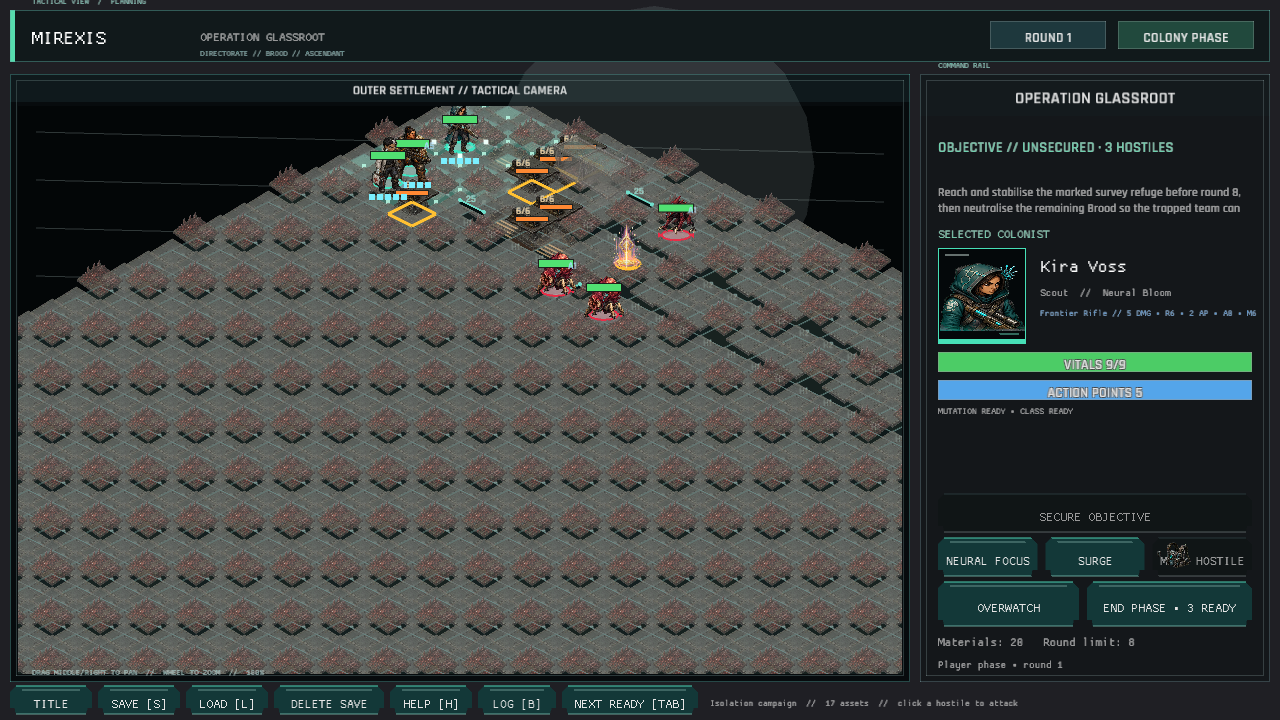
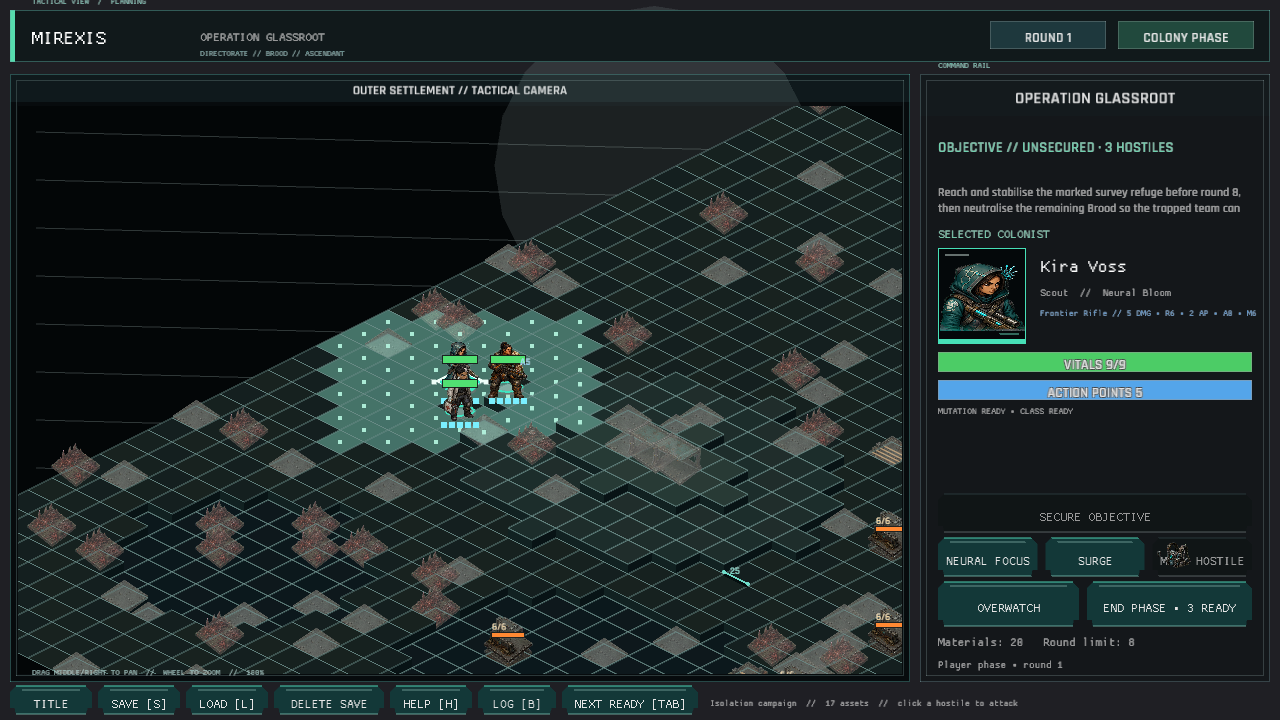
Every terrain plate meets the ground beneath it (tactical elevation and atlas origins)
The former corner bands and text labels did not read as terrain. Two broad mesas and two sunken basins now cross the 40 x 40 field, with height-sensitive top shading and exposed cliff faces drawn only where neighboring levels differ. `H0`/`H1`/`H2` labels are removed because the silhouettes carry the information.

`GridView` now owns the elevated tile ground anchor, atlas bounds, cliff-drop calculation, and art-aware culling. Measured 312 x 416 terrain-atlas cells define a 4:3 destination aspect, explicit per-content pivots, and near-tile-width scale; terrain, structures, canopy, and cover all use those shared bounds. Sparse mixed terrain art keeps the surfaces legible without losing authored landmarks.

Regression coverage pins height distribution, raised/lowered projection, cliff occlusion, inverse hit testing, atlas alpha axes, and pivot stability at 65%, 100%, and 185% zoom. Fresh `ui_gameplay.png` and `ui_variant.png` captures were inspected at 1280 x 720. Verified with 174 game tests plus the source-limit gate, strict Clippy with warnings denied, and a complete `publish.ps1` Windows/WebGL preview deployment.

diff --git a/src/grid_ui/tests.rs b/src/grid_ui/tests.rs
@@ -23,7 +23,7 @@ fn inverse_hit_testing_covers_projected_interiors_in_each_height_band() {
     ];
     for tile in [
         TilePos::new(3, 20),
-        TilePos::new(13, 12),
+        TilePos::new(12, 19),
         TilePos::new(20, 29),
         TilePos::new(29, 17),
     ] {
@@ -38,20 +38,20 @@ fn inverse_hit_testing_covers_projected_interiors_in_each_height_band() {
 }
 
 #[test]
-fn battlefield_exposes_three_visual_height_bands() {
+fn battlefield_exposes_raised_flat_and_lowered_height_bands() {
     let view = GridView::new(40, 40, Rect::new(0.0, 0.0, 780.0, 450.0));
     assert_eq!(view.elevation(TilePos::new(3, 20)), 0);
-    assert_eq!(view.elevation(TilePos::new(17, 12)), 1);
-    assert_eq!(view.elevation(TilePos::new(13, 12)), 2);
+    assert_eq!(view.elevation(TilePos::new(17, 19)), 1);
+    assert_eq!(view.elevation(TilePos::new(12, 19)), 2);
     assert_eq!(view.elevation(TilePos::new(20, 29)), -1);
 }
 
 #[test]
 fn raised_foreground_tile_owns_the_visibly_occluded_transition_area() {
     let view = GridView::new(40, 40, Rect::new(0.0, 0.0, 780.0, 450.0));
-    let rim = TilePos::new(13, 17);
+    let rim = TilePos::new(12, 24);
     let basin_rim = TilePos::new(20, 23);
-    assert_eq!(view.cliff_drop(rim, TilePos::new(13, 18)), 1);
+    assert_eq!(view.cliff_drop(rim, TilePos::new(12, 25)), 1);
     assert_eq!(view.cliff_drop(basin_rim, TilePos::new(20, 24)), 1);
     assert_eq!(view.tile_at(view.tile_center(rim)), Some(rim));
     assert_eq!(
@@ -81,8 +81,8 @@ fn elevation_regions_are_large_distributed_and_projected_vertically() {
     assert!(lowered >= 100, "only {lowered} lowered tiles");
 
     for tile in [
-        TilePos::new(13, 12),
-        TilePos::new(17, 12),
+        TilePos::new(12, 19),
+        TilePos::new(17, 19),
         TilePos::new(20, 29),
     ] {
         let plane_y = view.origin.y + (tile.x + tile.y) as f32 * view.half_height;
@@ -96,7 +96,7 @@ fn elevation_regions_are_large_distributed_and_projected_vertically() {
 #[test]
 fn terrain_art_bounds_keep_the_declared_pivot_on_the_tile_anchor() {
     let viewport = Rect::new(18.0, 106.0, 884.0, 568.0);
-    let tile = TilePos::new(13, 12);
+    let tile = TilePos::new(12, 19);
     for camera in [
         WorldCamera::tactical_view(tile, tile, 0.65),
         WorldCamera::tactical_view(TilePos::new(20, 20), tile, 1.0),
@@ -108,7 +108,7 @@ fn terrain_art_bounds_keep_the_declared_pivot_on_the_tile_anchor() {
         assert!((bounds.x + bounds.w * TERRAIN_ART_PIVOT[0] - anchor.x).abs() < 0.001);
         assert!((bounds.y + bounds.h * TERRAIN_ART_PIVOT[1] - anchor.y).abs() < 0.001);
         assert_eq!(bounds.w, view.tile_rect(tile).w * TERRAIN_ART_SCALE);
-        assert_eq!(bounds.w, bounds.h);
+        assert_eq!(bounds.h, bounds.w * TERRAIN_ART_ASPECT);
     }
 }
 

diff --git a/src/tactical_map_ui.rs b/src/tactical_map_ui.rs
@@ -329,20 +329,21 @@ fn draw_terrain_tile(
     };
     draw_diamond_fill(top, top_color);
 
-    let atlas_index = terrain_art_index(ctx, position, blocked, terrain_cost);
-    let (scale, pivot) = if blocked {
-        (STRUCTURE_ART_SCALE, STRUCTURE_ART_PIVOT)
-    } else {
-        (TERRAIN_ART_SCALE, TERRAIN_ART_PIVOT)
-    };
-    let art_rect = view.art_bounds(position, scale, pivot);
-    ctx.visuals.draw_atlas_cell(
-        ctx.assets,
-        &ctx.visuals.terrain,
-        atlas_index,
-        art_rect,
-        Color::new(0.92, 0.96, 0.94, if blocked { 0.90 } else { 0.78 }),
-    );
+    if let Some(atlas_index) = terrain_art_index(ctx, position, blocked, terrain_cost) {
+        let (scale, pivot) = if blocked {
+            (STRUCTURE_ART_SCALE, STRUCTURE_ART_PIVOT)
+        } else {
+            (TERRAIN_ART_SCALE, TERRAIN_ART_PIVOT)
+        };
+        let art_rect = view.art_bounds(position, scale, pivot);
+        ctx.visuals.draw_atlas_cell(
+            ctx.assets,
+            &ctx.visuals.terrain,
+            atlas_index,
+            art_rect,
+            Color::new(0.92, 0.96, 0.94, if blocked { 0.90 } else { 0.78 }),
+        );
+    }
 
     if terrain_cost > 1 && !blocked {
         draw_projected_hatch(top, Color::new(0.90, 0.58, 0.20, 0.50));
@@ -419,18 +420,29 @@ fn draw_cliff_face(
     }
 }
 
-fn terrain_art_index(ctx: &UiContext<'_>, position: TilePos, blocked: bool, cost: u8) -> usize {
+fn terrain_art_index(
+    ctx: &UiContext<'_>,
+    position: TilePos,
+    blocked: bool,
+    cost: u8,
+) -> Option<usize> {
     if blocked {
-        return 3;
+        return Some(3);
     }
     if cost > 1 {
-        return 1;
+        return Some(1);
     }
-    if (position.x + position.y) % 4 == 0 {
-        ctx.visuals
-            .faction_terrain_cell(&ctx.mission.hostile_faction)
+    let pattern =
+        (position.x as u32).wrapping_mul(73_856_093) ^ (position.y as u32).wrapping_mul(19_349_663);
+    if pattern.is_multiple_of(31) {
+        Some(
+            ctx.visuals
+                .faction_terrain_cell(&ctx.mission.hostile_faction),
+        )
+    } else if pattern.is_multiple_of(13) {
+        Some(0)
     } else {
-        0
+        None
     }
 }
 
@@ -470,7 +482,7 @@ fn draw_tile_contents(ctx: &UiContext<'_>, view: GridView, position: TilePos) {
 }
 
 fn draw_foreground(ctx: &UiContext<'_>, view: GridView, hovered: Option<TilePos>) {
-    let canopy_tiles = [TilePos::new(13, 12), TilePos::new(14, 12)];
+    let canopy_tiles = [TilePos::new(12, 19), TilePos::new(13, 19)];
     for tile in canopy_tiles {
         if tile.x >= ctx.session.tactical.fog.width as i32
             || tile.y >= ctx.session.tactical.fog.height as i32

diff --git a/src/grid_ui.rs b/src/grid_ui.rs
@@ -5,12 +5,13 @@ use macroquad_toolkit::grid::TilePos;
 
 pub(crate) const TACTICAL_HALF_WIDTH: f32 = 24.0;
 pub(crate) const TACTICAL_HALF_HEIGHT: f32 = 12.0;
-pub(crate) const TERRAIN_ART_SCALE: f32 = 1.70;
-pub(crate) const TERRAIN_ART_PIVOT: [f32; 2] = [0.50, 0.46];
-pub(crate) const STRUCTURE_ART_SCALE: f32 = 1.78;
-pub(crate) const STRUCTURE_ART_PIVOT: [f32; 2] = [0.50, 0.64];
-pub(crate) const CANOPY_ART_SCALE: f32 = 2.10;
-pub(crate) const CANOPY_ART_PIVOT: [f32; 2] = [0.50, 0.70];
+pub(crate) const TERRAIN_ART_SCALE: f32 = 1.06;
+pub(crate) const TERRAIN_ART_PIVOT: [f32; 2] = [0.50, 0.58];
+pub(crate) const STRUCTURE_ART_SCALE: f32 = 1.10;
+pub(crate) const STRUCTURE_ART_PIVOT: [f32; 2] = [0.50, 0.68];
+pub(crate) const CANOPY_ART_SCALE: f32 = 1.15;
+pub(crate) const CANOPY_ART_PIVOT: [f32; 2] = [0.50, 0.65];
+pub(crate) const TERRAIN_ART_ASPECT: f32 = 4.0 / 3.0;
 
 #[derive(Debug, Clone, Copy)]
 pub(crate) struct WorldCamera {
@@ -195,12 +196,13 @@ impl GridView {
 
     pub(crate) fn art_bounds(self, tile: TilePos, scale: f32, pivot: [f32; 2]) -> Rect {
         let anchor = self.ground_anchor(tile);
-        let size = self.half_width * 2.0 * scale;
+        let width = self.half_width * 2.0 * scale;
+        let height = width * TERRAIN_ART_ASPECT;
         Rect::new(
-            anchor.x - size * pivot[0],
-            anchor.y - size * pivot[1],
-            size,
-            size,
+            anchor.x - width * pivot[0],
+            anchor.y - height * pivot[1],
+            width,
+            height,
         )
     }
 
@@ -225,9 +227,9 @@ impl GridView {
     }
 
     pub(crate) fn elevation(self, tile: TilePos) -> i8 {
-        if inside_region(tile, 13, 12, 3, 2) || inside_region(tile, 29, 17, 3, 3) {
+        if inside_region(tile, 12, 19, 3, 2) || inside_region(tile, 29, 17, 3, 3) {
             2
-        } else if inside_region(tile, 13, 12, 7, 5) || inside_region(tile, 29, 17, 6, 5) {
+        } else if inside_region(tile, 12, 19, 6, 5) || inside_region(tile, 29, 17, 6, 5) {
             1
         } else if inside_region(tile, 20, 29, 7, 5) || inside_region(tile, 7, 31, 4, 4) {
             -1

diff --git a/src/visual_assets/tests.rs b/src/visual_assets/tests.rs
@@ -82,6 +82,37 @@ fn every_recruit_and_hostile_record_resolves_to_authored_unit_and_portrait_art()
 }
 
 #[test]
+fn terrain_atlas_visible_cells_share_the_declared_horizontal_ground_axis() {
+    let bytes = std::fs::read("assets/art/terrain/terrain_atlas.png").unwrap();
+    let image = Image::from_file_with_format(&bytes, None).unwrap();
+    let columns = 4usize;
+    let rows = 3usize;
+    let width = image.width as usize;
+    let cell_width = width / columns;
+    let cell_height = image.height as usize / rows;
+    for row in 0..rows {
+        for column in 0..columns {
+            let mut min_x = cell_width;
+            let mut max_x = 0usize;
+            for y in row * cell_height..(row + 1) * cell_height {
+                for local_x in 0..cell_width {
+                    let x = column * cell_width + local_x;
+                    if image.bytes[(y * width + x) * 4 + 3] > 12 {
+                        min_x = min_x.min(local_x);
+                        max_x = max_x.max(local_x);
+                    }
+                }
+            }
+            let visible_axis = (min_x + max_x) as f32 / (2.0 * cell_width as f32);
+            assert!(
+                (visible_axis - crate::grid_ui::TERRAIN_ART_PIVOT[0]).abs() < 0.04,
+                "terrain cell ({column}, {row}) axis {visible_axis:.3} misses declared pivot"
+            );
+        }
+    }
+}
+
+#[test]
 fn every_declared_atlas_decodes_and_has_art_in_every_cell() {
     let catalog = VisualCatalog::load();
     let manifest: Vec<serde_json::Value> = serde_json::from_str(
